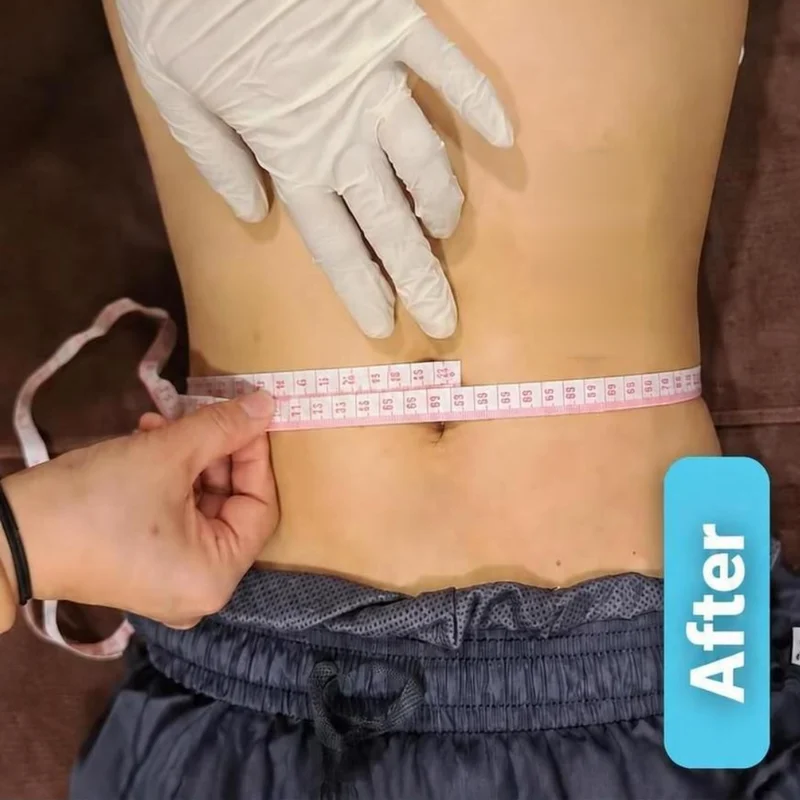
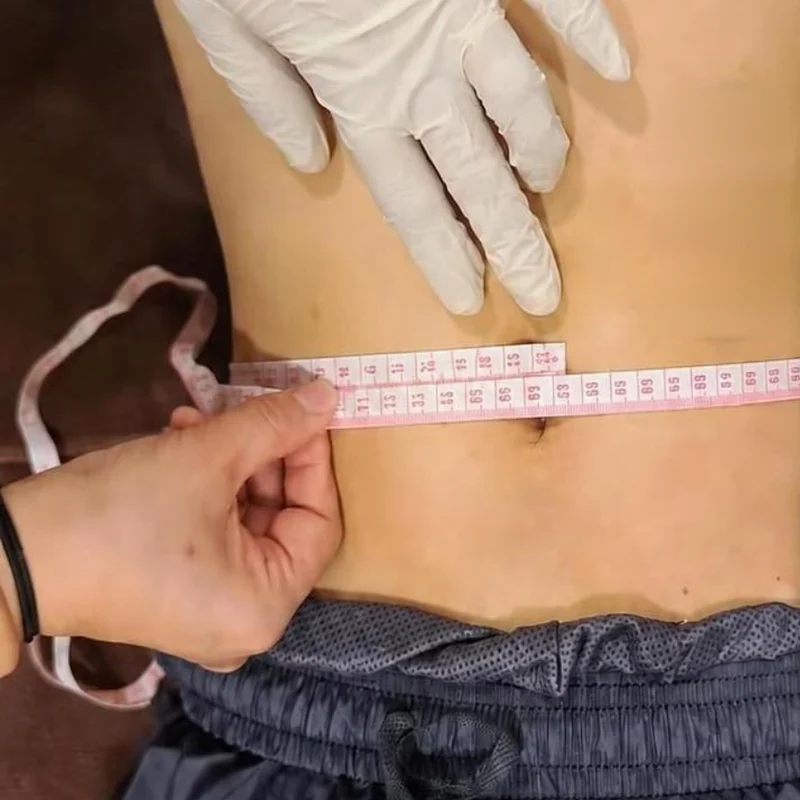
복부 사례: 사진의 Before/After 글자를 잘라 내고 사이트 표시로 (전·후가 양쪽에 보이게)

diff --git a/src/data/content.js b/src/data/content.js
@@ -227,7 +227,7 @@ export const beforeAfter = [
     consent: true, labeled: false,
   },
   {
-    // 2026-11-05 공개 (카이: 관리자는 이수미 대표, 관리 받은 분 게재 동의 받음). 사진에 BEFORE/AFTER 글자가 박혀 있음
+    // 2026-11-05 공개 (카이: 관리자는 이수미 대표, 관리 받은 분 게재 동의 받음)
     // 사진 위에 덧붙여 있던 허리둘레 숫자(75.3 / 67.5) 글자만 지움 (2026-11-05 카이 결정). 몸·줄자는 손대지 않음
     // ⚠ '다이어트' 대신 '복부 바디 관리'로 표기. 체중·체지방 감소처럼 읽히는 문구는 쓰지 않기 (미용기기)
     area: '복부', area_en: 'Abdomen', area_zh: '腹部',
@@ -237,7 +237,7 @@ export const beforeAfter = [
     caution: '관리 전 · 후 허리둘레를 줄자로 잰 사례로, 측정 위치 · 자세 · 시점에 따라 수치가 달라질 수 있으며 체중 · 체지방 감소 효과를 뜻하지 않습니다.',
     caution_en: 'Waist measurements were taken with a tape measure before and after care. Figures can vary with measuring position, posture and timing, and do not indicate weight or body-fat reduction.',
     caution_zh: '本案例为护理前后用卷尺测量腰围，数值会因测量位置、姿势及时间而有所不同，不代表体重或体脂减少的效果。',
-    consent: true, labeled: true,
+    consent: true, labeled: false, // 2026-11-05 사진 오른쪽의 Before/After 글자를 잘라 내고 사이트 표시(왼쪽 BEFORE · 오른쪽 AFTER)로 바꿈
   },
   {
     area: '두피', area_en: 'Scalp', area_zh: '头皮',
